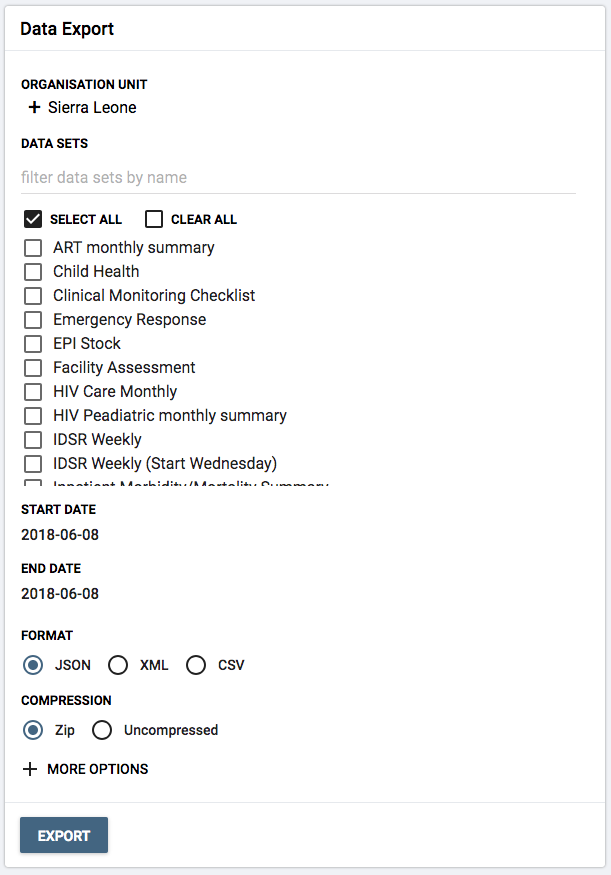
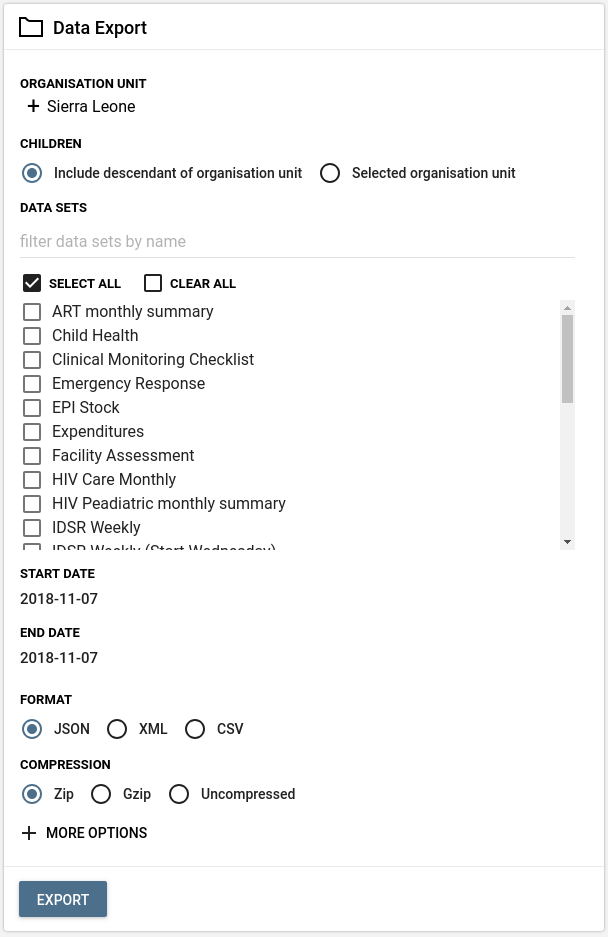
import-export-app(data export): update docs

diff --git a/src/commonmark/en/content/user/importexport-app.md b/src/commonmark/en/content/user/importexport-app.md
@@ -293,21 +293,23 @@ export.
 
 1.  Select the *Organisation Units* .
 
-2.  Set the *Start* and *End Date* .
+2.  Select under Children if you want export to include descendants of organisation units selected in Step 1 or only the manually selected organisation units.
 
-3.  Choose the *Data Sets*
+3.  Set the *Start* and *End Date* .
 
-4.  Select a format: **XML** or **JSON** .
+4.  Choose the *Data Sets*
 
-5.  Select **Compression** : **Zip** , **Gzip** or **Uncompressed**.
+5.  Select a format: **XML** or **JSON** .
 
-6.  Click *MORE OPTIONS* If you want to adjust Data Element ID Scheme,
+6.  Select **Compression** : **Zip** , **Gzip** or **Uncompressed**.
+
+7.  Click *MORE OPTIONS* If you want to adjust Data Element ID Scheme,
     Org. Unit ID Scheme or Category ID Scheme before export.
 
-7.  Click **Export** which will bring up the **Logger** at the bottom of
+8.  Click **Export** which will bring up the **Logger** at the bottom of
     the page to show the progress.
 
-8.  The exported file is downloaded to your local computer.
+9.  The exported file is downloaded to your local computer.
 
 ## Event export
 
